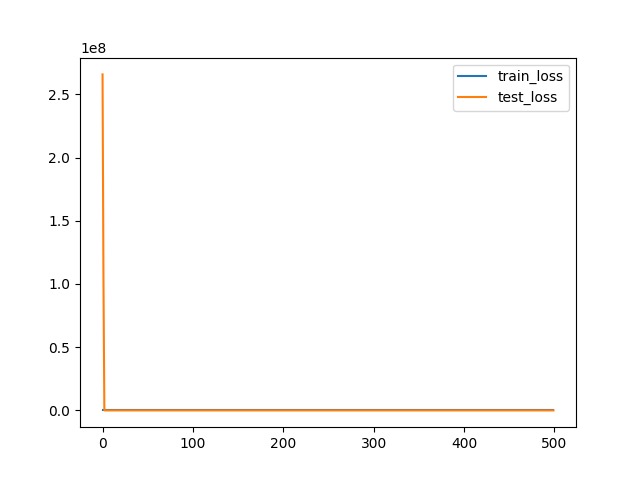
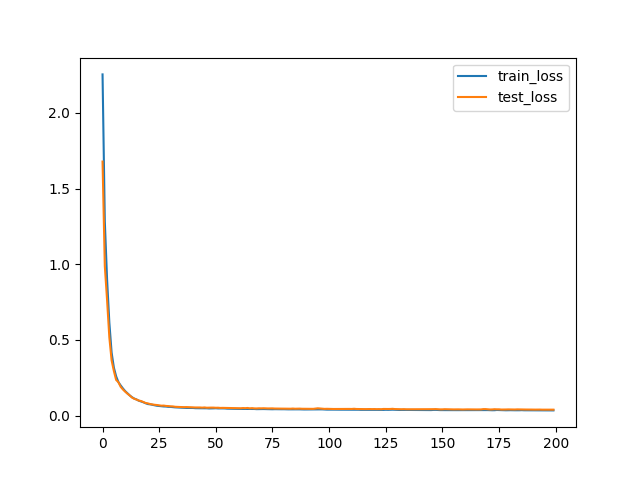
VGG16 is added as pretrained

diff --git a/src/vgg16.py b/src/vgg16.py
@@ -1,0 +1,78 @@
+import sys
+import os
+from collections import OrderedDict
+import torch
+import torch.nn as nn
+import torchvision.models as models
+
+
+class VGG16(nn.Module):
+    def __init__(self, out_channels=3, image_size=128):
+        super(VGG16, self).__init__()
+
+        self.out_channels = out_channels
+        self.image_size = image_size
+
+        self.scale_factor = 2
+        self.repetitive = 5
+        self.in_channels = 512
+
+        self.config = [
+            (self.in_channels, self.in_channels // 2),
+            (self.in_channels // 2, self.in_channels // 4),
+            (self.in_channels // 4, self.in_channels // 8),
+            (self.in_channels // 8, self.out_channels),
+        ]
+
+        self.model = models.vgg16(pretrained=True)
+        self.model = self.model.features
+
+        for params in self.model.parameters():
+            params.requires_grad = False
+
+        self.up_scaling = self.up_sampling_block()
+        self.out = self.out_block(self.config)
+
+    def up_sampling_block(self):
+        return nn.Upsample(
+            scale_factor=self.scale_factor, mode="bilinear", align_corners=False
+        )
+
+    def out_block(self, config):
+        layers = OrderedDict()
+
+        if config is not None:
+            for index, (in_channels, out_channels) in enumerate(config[:-1]):
+                layers["conv{}".format(index)] = nn.Conv2d(
+                    in_channels=in_channels,
+                    out_channels=out_channels,
+                    kernel_size=3,
+                    padding=1,
+                )
+                layers["relu{}".format(index)] = nn.ReLU(inplace=True)
+
+            in_channels, out_channels = config[-1]
+            layers["conv{}".format(len(config) - 1)] = nn.Conv2d(
+                in_channels=in_channels,
+                out_channels=out_channels,
+                kernel_size=3,
+                padding=1,
+                stride=1,
+            )
+
+            return nn.Sequential(layers)
+        else:
+            raise Exception("config is None".capitalize())
+
+    def forward(self, x):
+        x = self.model(x)
+
+        for _ in range(self.repetitive):
+            x = self.up_scaling(x)
+
+        return self.out(x)
+
+
+if __name__ == "__main__":
+    model = VGG16(out_channels=3)
+    print(model(torch.randn(64, 3, 64, 64)).shape)

diff --git a/src/test.py b/src/test.py
@@ -16,6 +16,7 @@ from config import (
 )
 from utils import device_init, load
 from DnCNN import DnCNN
+from vgg16 import VGG16
 
 
 class Charts:
@@ -48,7 +49,7 @@ class Charts:
             Plots comparison images (noisy, clean, predicted) and saves a comparison figure and a training images GIF.
     """
 
-    def __init__(self, device="mps"):
+    def __init__(self, device="mps", is_vgg16=False):
         """
         Initializes the Charts object with specified device for PyTorch operations and
         sets initial values for attributes.
@@ -57,6 +58,7 @@ class Charts:
             device (str): The device type for PyTorch operations. Defaults to 'mps'.
         """
         self.device = device_init(device=device)
+        self.is_vgg16 = is_vgg16
         self.infinity = float("inf")
         self.model = None
         self.best_model = None
@@ -148,7 +150,10 @@ class Charts:
             Exception: If the TEST_IMAGES_PATH does not exist.
         """
         try:
-            self.model = DnCNN().to(self.device)
+            if self.is_vgg16:
+                self.model = VGG16().to(self.device)
+            else:
+                self.model = DnCNN().to(self.device)
         except Exception as e:
             print("The exception in the model is:", e)
         else:

diff --git a/src/cli.py b/src/cli.py
@@ -105,6 +105,13 @@ def cli():
         "--SGD", type=bool, default=False, help="Define the SGD".capitalize()
     )
     parser.add_argument(
+        "--is_vgg16",
+        type=bool,
+        default=False,
+        help="Define the VGG16 model".capitalize(),
+    )
+
+    parser.add_argument(
         "--is_l1", type=bool, default=False, help="Define the l1".capitalize()
     )
     parser.add_argument(
@@ -141,7 +148,7 @@ def cli():
             print(e)
         else:
             loader.unzip_folder()
-            dataloader = loader.create_dataloader()
+            _ = loader.create_dataloader()
 
         try:
             trainer = Trainer(
@@ -152,6 +159,7 @@ def cli():
                 beta1=args.beta1,
                 adam=args.adam,
                 SGD=args.SGD,
+                is_vgg16=args.is_vgg16,
                 is_l1=args.is_l1,
                 is_l2=args.is_l2,
                 is_huber_loss=args.is_huber_loss,
@@ -168,6 +176,7 @@ def cli():
         try:
             charts = Charts(
                 device=args.device,
+                is_vgg16=args.is_vgg16,
             )
         except Exception as e:
             print(e)

diff --git a/src/trainer.py b/src/trainer.py
@@ -50,6 +50,7 @@ class Trainer:
         device="mps",
         adam=True,
         SGD=False,
+        is_vgg16=False,
         is_lr_scheduler=False,
         is_l1=False,
         is_l2=False,
@@ -78,6 +79,7 @@ class Trainer:
         self.beta1 = beta1
         self.is_adam = adam
         self.is_SGD = SGD
+        self.is_vgg16 = is_vgg16
         self.device = device
         self.is_lr_scheduler = is_lr_scheduler
         self.is_l1 = is_l1
@@ -93,6 +95,7 @@ class Trainer:
                 model=self.DnCNN,
                 lr=self.lr,
                 adam=self.is_adam,
+                is_vgg16=self.is_vgg16,
                 lr_scheduler=self.is_lr_scheduler,
                 SGD=self.is_SGD,
                 device=self.device,

diff --git a/src/helper.py b/src/helper.py
@@ -10,6 +10,7 @@ sys.path.append("src/")
 from utils import weight_init, load, params
 from config import PROCESSED_DATA_PATH
 from DnCNN import DnCNN
+from vgg16 import VGG16
 
 
 def helper(**kwargs):
@@ -56,14 +57,19 @@ def helper(**kwargs):
         >>> print(setup["model"])
         >>> print(setup["train_dataloader"].dataset)
     """
-    model = DnCNN()
     device = kwargs["device"]
     adam = kwargs["adam"]
+    is_vgg16 = kwargs["is_vgg16"]
     SGD = kwargs["SGD"]
     lr = kwargs["lr"]
     beta1 = kwargs["beta1"]
     huber_loss = kwargs["huber_loss"]
     lr_scheduler = kwargs["lr_scheduler"]
+
+    if is_vgg16:
+        model = VGG16()
+    else:
+        model = DnCNN()
 
     if adam:
         optimizer = optim.Adam(
